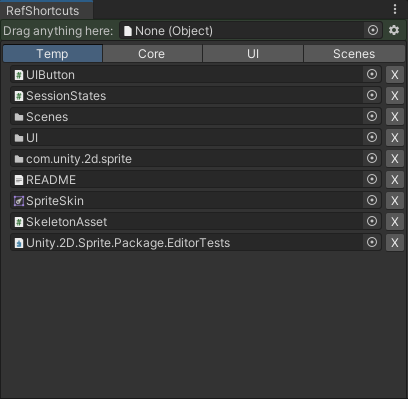
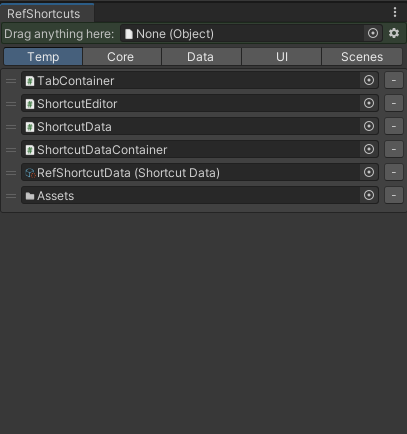
add: ReorderableList

diff --git a/Assets/Plugins/RefShortcuts/Editor/ShortcutEditor.cs b/Assets/Plugins/RefShortcuts/Editor/ShortcutEditor.cs
@@ -1,7 +1,11 @@
+using System;
+using System.Collections;
 using System.Collections.Generic;
 using System.Linq;
 using UnityEditor;
+using UnityEditorInternal;
 using UnityEngine;
+using Object = UnityEngine.Object;
 
 namespace RefShortcuts.Editor
 {
@@ -16,12 +20,13 @@ namespace RefShortcuts.Editor
         private ShortcutData _shortcutData;
         private Object _newObject;
         private Vector2 _scrollPos = Vector2.zero;
+        private int _currentTabIndex;
+        private bool _settingsEnabled;
+        private string _settingsNewTabName;
+        private ReorderableList _reorderableList;
         
         private List<ShortcutDataContainer> CurrentDataList => _shortcutData.GetData(_currentTabIndex);
-        private int _currentTabIndex = 0;
-        private bool _settingsEnabled;
-        private string _settingsNewTabNAme;
-
+        
         [MenuItem("Window/Tools/RefShortcut", false, 1)]
         private static void ShowWindow()
         {
@@ -29,10 +34,11 @@ namespace RefShortcuts.Editor
             _window.titleContent.text = "RefShortcuts";
         }
 
-        private void OnEnable()
+        private void Awake()
         {
             CacheShortcutData();
             RemoveEmptyElementsInData();
+            IntReorderableList(CurrentDataList);
         }
 
         private void CacheShortcutData()
@@ -65,7 +71,8 @@ namespace RefShortcuts.Editor
 
         private void OnGUI()
         {
-            List<ShortcutDataContainer> dataInfoList = CurrentDataList;
+            _deleteItemIndex = -1;
+            var dataList = CurrentDataList;
             var tabs = _shortcutData.GetTabs();
 
             #region Add Shortcut
@@ -73,24 +80,24 @@ namespace RefShortcuts.Editor
             var addObjFieldRect = new Rect(1f, 0f, (position.width - 2f), 22f);
             DrawBackgroundBox(addObjFieldRect, _addFieldColor);
 
-            EditorGUILayout.BeginHorizontal();
+            EditorGUILayout.BeginHorizontal(); //add object
             {
                 var width = position.width;
                 EditorGUIUtility.labelWidth = 115f;
                 _newObject = EditorGUILayout.ObjectField("Drag anything here:", _newObject, typeof(Object), true, GUILayout.Width(width - 28));
 
-                if (_newObject != null && !dataInfoList.Exists(x => x.Object == _newObject))
+                if (_newObject != null && !dataList.Exists(x => x.Object == _newObject))
                 {
-                    var firstEmptyIndex = dataInfoList.FindIndex(x => x.Object == null);
+                    var firstEmptyIndex = dataList.FindIndex(x => x.Object == null);
                     var newDataInfo = new ShortcutDataContainer(_newObject);
 
                     if (firstEmptyIndex < 0)
                     {
-                        dataInfoList.Add(newDataInfo);
+                        dataList.Add(newDataInfo);
                     }
                     else
                     {
-                        dataInfoList[firstEmptyIndex] = newDataInfo;
+                        dataList[firstEmptyIndex] = newDataInfo;
                     }
 
                     EditorUtility.SetDirty(_shortcutData);
@@ -98,7 +105,7 @@ namespace RefShortcuts.Editor
 
                 _newObject = null;
        
-                EditorGUILayout.BeginVertical();
+                EditorGUILayout.BeginVertical(); // settings button
                 {
                     GUILayout.Space(3);
                     if (GUILayout.Button(EditorGUIUtility.IconContent("_Popup"), new GUIStyle(), GUILayout.Height(20)))
@@ -114,58 +121,15 @@ namespace RefShortcuts.Editor
 
             #region Show list
 
-            var listFieldRect = new Rect(1f, 21f, (position.width - 2f), position.height);
-            DrawBackgroundBox(listFieldRect, _listFieldColor);
+            /*var listFieldRect = new Rect(1f, 21f, (position.width - 2f), position.height);
+            DrawBackgroundBox(listFieldRect, _listFieldColor);*/
             
             if (!_settingsEnabled)
             {
-                _scrollPos = EditorGUILayout.BeginScrollView(_scrollPos, GUILayout.Width(position.width),
-                    GUILayout.Height(position.height - 40f));
+                _scrollPos = EditorGUILayout.BeginScrollView(_scrollPos, GUILayout.Width(position.width), GUILayout.Height(position.height - 40f));
                 {
-                    if (tabs.Length > 1)
-                    {
-                        EditorGUILayout.BeginHorizontal();
-                        _currentTabIndex = GUILayout.Toolbar(_currentTabIndex, tabs);
-                        EditorGUILayout.EndHorizontal();
-                    }
-
-                    var deleteIdx = -1;
-
-                    for (var i = 0; i < dataInfoList.Count; ++i)
-                    {
-                        var curInfo = dataInfoList[i];
-
-                        if (curInfo.Object == null)
-                        {
-                            continue;
-                        }
-
-                        EditorGUILayout.BeginHorizontal();
-                        {
-
-                            EditorGUI.BeginChangeCheck();
-                            {
-                                EditorGUILayout.LabelField("", GUILayout.Width(5f));
-
-                                var obj = EditorGUILayout.ObjectField(curInfo.Object, typeof(Object), true);
-                                curInfo.SetObject(obj);
-                            }
-                            if (EditorGUI.EndChangeCheck())
-                            {
-                                EditorUtility.SetDirty(_shortcutData);
-                            }
-                            else if (GUILayout.Button("X", GUILayout.Width(20f)))
-                            {
-                                deleteIdx = i;
-                            }
-                        }
-                        EditorGUILayout.EndHorizontal();
-                    }
-
-                    if (deleteIdx >= 0)
-                    {
-                        dataInfoList.RemoveAt(deleteIdx);
-                    }
+                    DrawTabs(tabs);
+                    _reorderableList?.DoLayoutList();
                 }
                 EditorGUILayout.EndScrollView();
             }
@@ -176,6 +140,24 @@ namespace RefShortcuts.Editor
 
             #endregion Show list
         }
+
+        private void DrawTabs(string[] tabs)
+        {
+            if (tabs.Length <= 1)
+                return;
+
+            var lastIndex = _currentTabIndex;
+
+            EditorGUILayout.BeginHorizontal();
+            _currentTabIndex = GUILayout.Toolbar(_currentTabIndex, tabs);
+            EditorGUILayout.EndHorizontal();
+
+            if (lastIndex != _currentTabIndex)
+            {
+                IntReorderableList(CurrentDataList);
+            }
+        }
+        
         private void DrawSettings(IReadOnlyList<string> tabs)
         {
             EditorGUILayout.BeginVertical();
@@ -215,17 +197,67 @@ namespace RefShortcuts.Editor
 
                 EditorGUILayout.BeginHorizontal();
                 {
-                    _settingsNewTabNAme = GUILayout.TextField(_settingsNewTabNAme);
+                    _settingsNewTabName = GUILayout.TextField(_settingsNewTabName);
             
                     if (GUILayout.Button("+", GUILayout.Width(20f)))
                     {
-                        if(!_shortcutData.AddTab(_settingsNewTabNAme))
-                            Debug.LogError($"{nameof(ShortcutData)}: tab \"{_settingsNewTabNAme}\" already exist");
+                        if(!_shortcutData.AddTab(_settingsNewTabName))
+                            Debug.LogError($"{nameof(ShortcutData)}: tab \"{_settingsNewTabName}\" already exist");
                     }   
                 }
                 EditorGUILayout.EndHorizontal();
             }
             EditorGUILayout.EndVertical();
+        }
+
+        private void IntReorderableList(IList list)
+        {
+            _reorderableList = new ReorderableList(list, typeof(Object));
+            _reorderableList.drawElementCallback += DrawReorderListElement;
+            _reorderableList.onReorderCallback += ReorderCallback;
+            _reorderableList.displayRemove = false;
+            _reorderableList.displayAdd = false;
+            _reorderableList.headerHeight = 0;
+        }
+
+        private void ReorderCallback(ReorderableList reorderableList)
+        {
+            _shortcutData.SetDataList((List<ShortcutDataContainer>)reorderableList.list, _currentTabIndex);
+            EditorUtility.SetDirty(_shortcutData);
+        }
+
+        private int _deleteItemIndex = -1;
+        private void DrawReorderListElement(Rect rect, int index, bool isActive, bool isFocused)
+        {
+            if(_deleteItemIndex >= 0)
+                return;
+            
+            EditorGUILayout.BeginHorizontal();
+            {
+                var objRect = new Rect(rect.x, rect.y, position.width - 50, EditorGUIUtility.singleLineHeight);
+                var curInfo = CurrentDataList.ElementAt(index);
+                EditorGUI.ObjectField(objRect, curInfo.Object, typeof(Object),false);
+                
+                objRect.x = rect.x + position.width - 45;
+                objRect.width = 20;
+                if (GUI.Button(objRect, EditorGUIUtility.IconContent("d_Toolbar Minus")))
+                {
+                    _deleteItemIndex = index;
+                }
+            }
+            EditorGUILayout.EndHorizontal();
+            
+            if (_deleteItemIndex >= 0)
+            {
+                RemoveItem(_deleteItemIndex);
+            }
+        }
+
+        private void RemoveItem(int index)
+        {
+            CurrentDataList.RemoveAt(index);
+            IntReorderableList(CurrentDataList);
+            EditorUtility.SetDirty(_shortcutData);
         }
 
         private static void DrawBackgroundBox(Rect rect, Color color)
